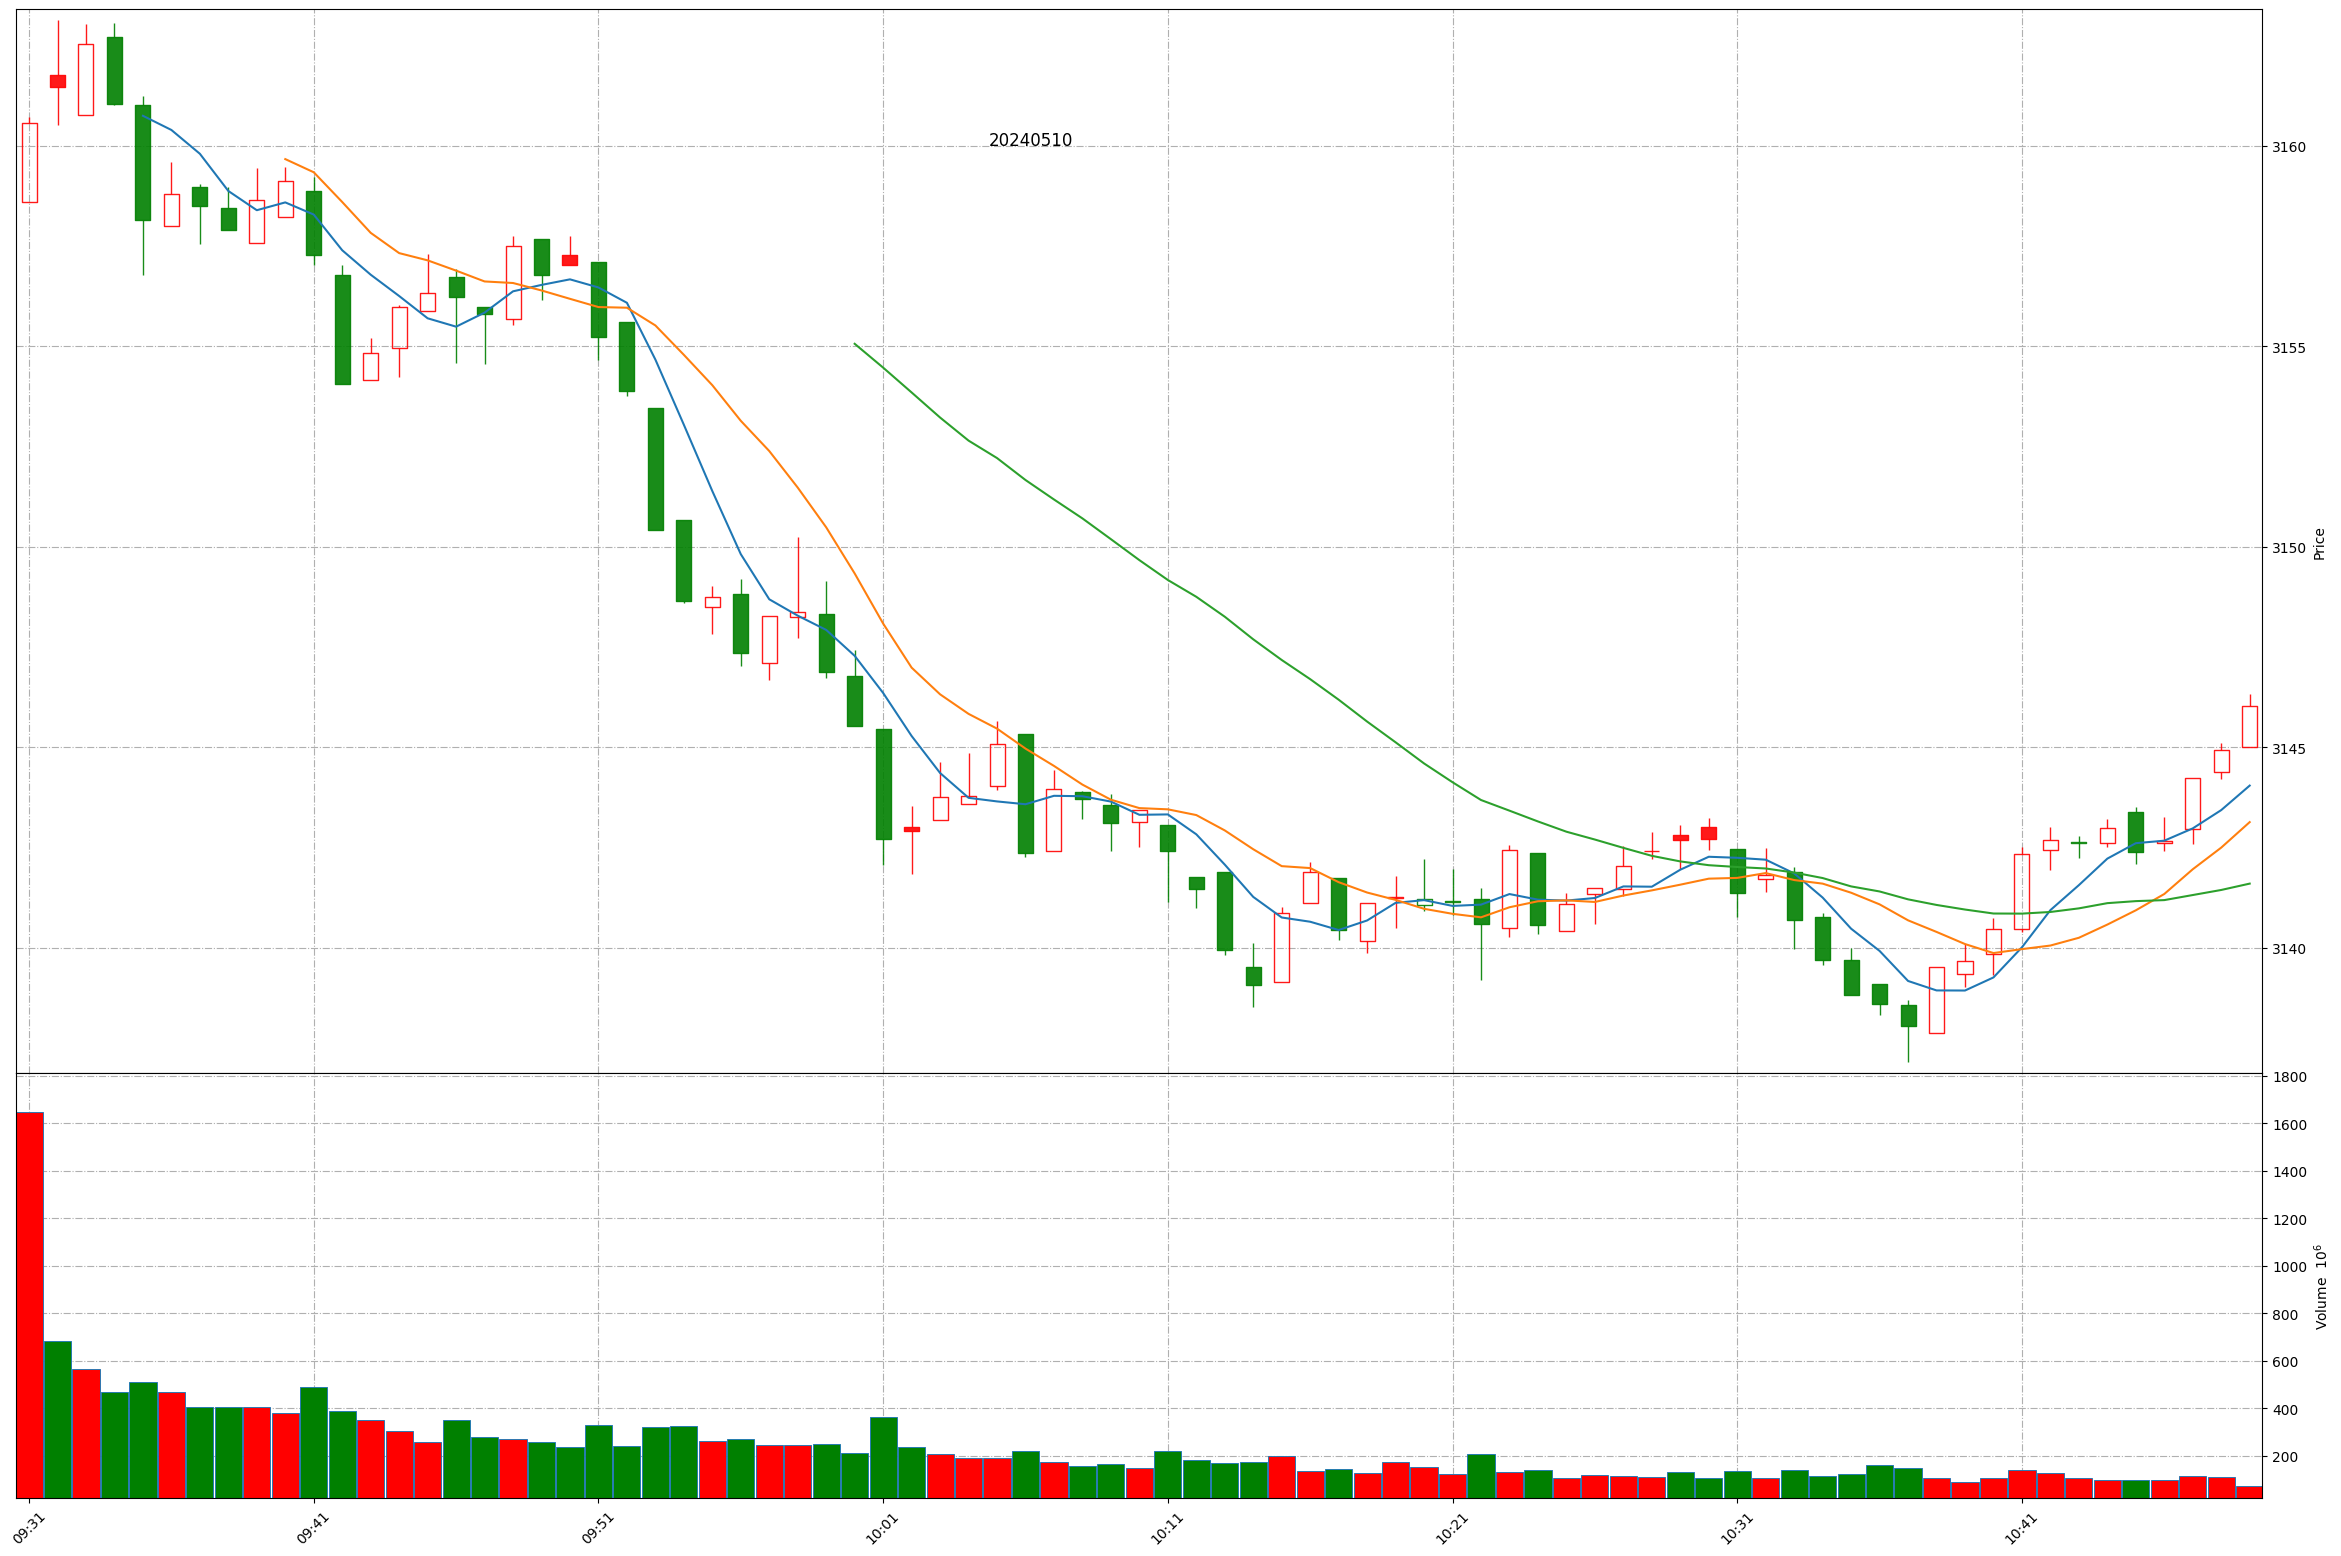
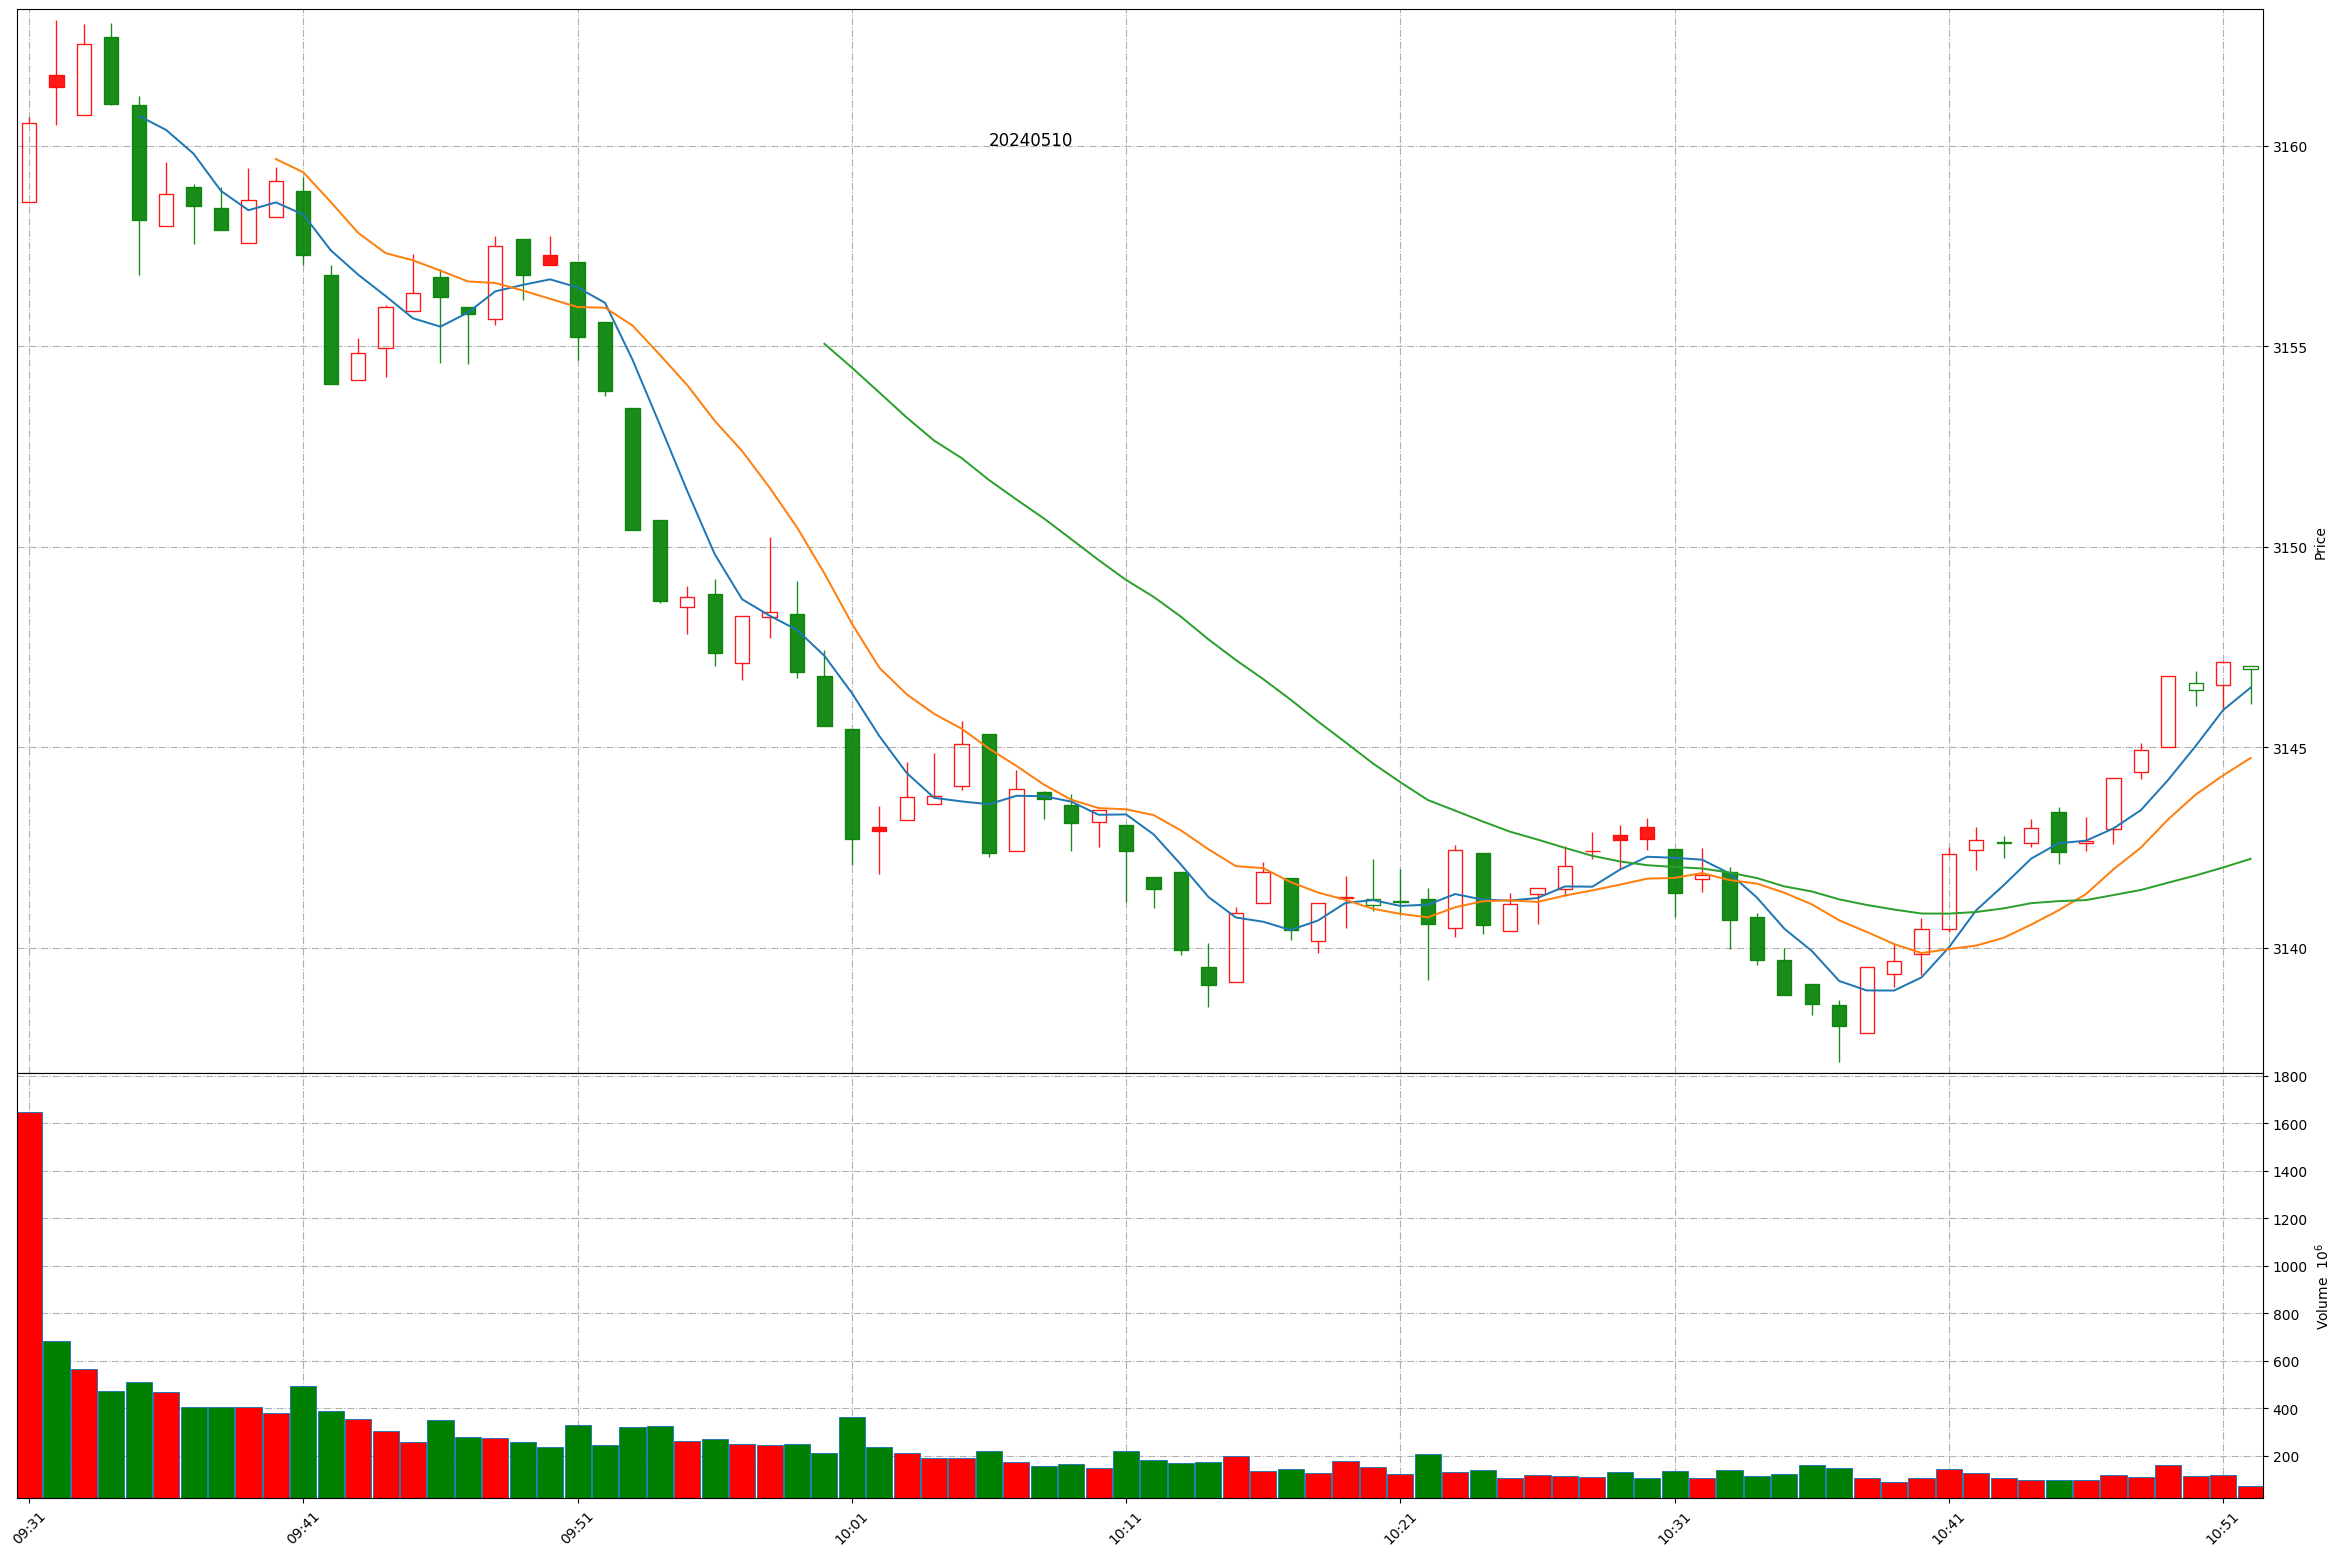
Github action update at 2024-05-10 10:52:03.

diff --git a/README.md b/README.md
@@ -1,11 +1,11 @@
 
 # Daily-A-share-market-quotes 每日 A 股指数（5min 更新）- 20240510
 
-### 上证指数 20240510 10:48
+### 上证指数 20240510 10:52
 ![](./fig/2024/5/20240510-sh000001.png)
 
-### 深证成指 20240510 10:48
+### 深证成指 20240510 10:52
 ![](./fig/2024/5/20240510-sz399001.png)
 
-### 北证50 20240510 10:48
+### 北证50 20240510 10:52
 ![](./fig/2024/5/20240510-bj899050.png)
